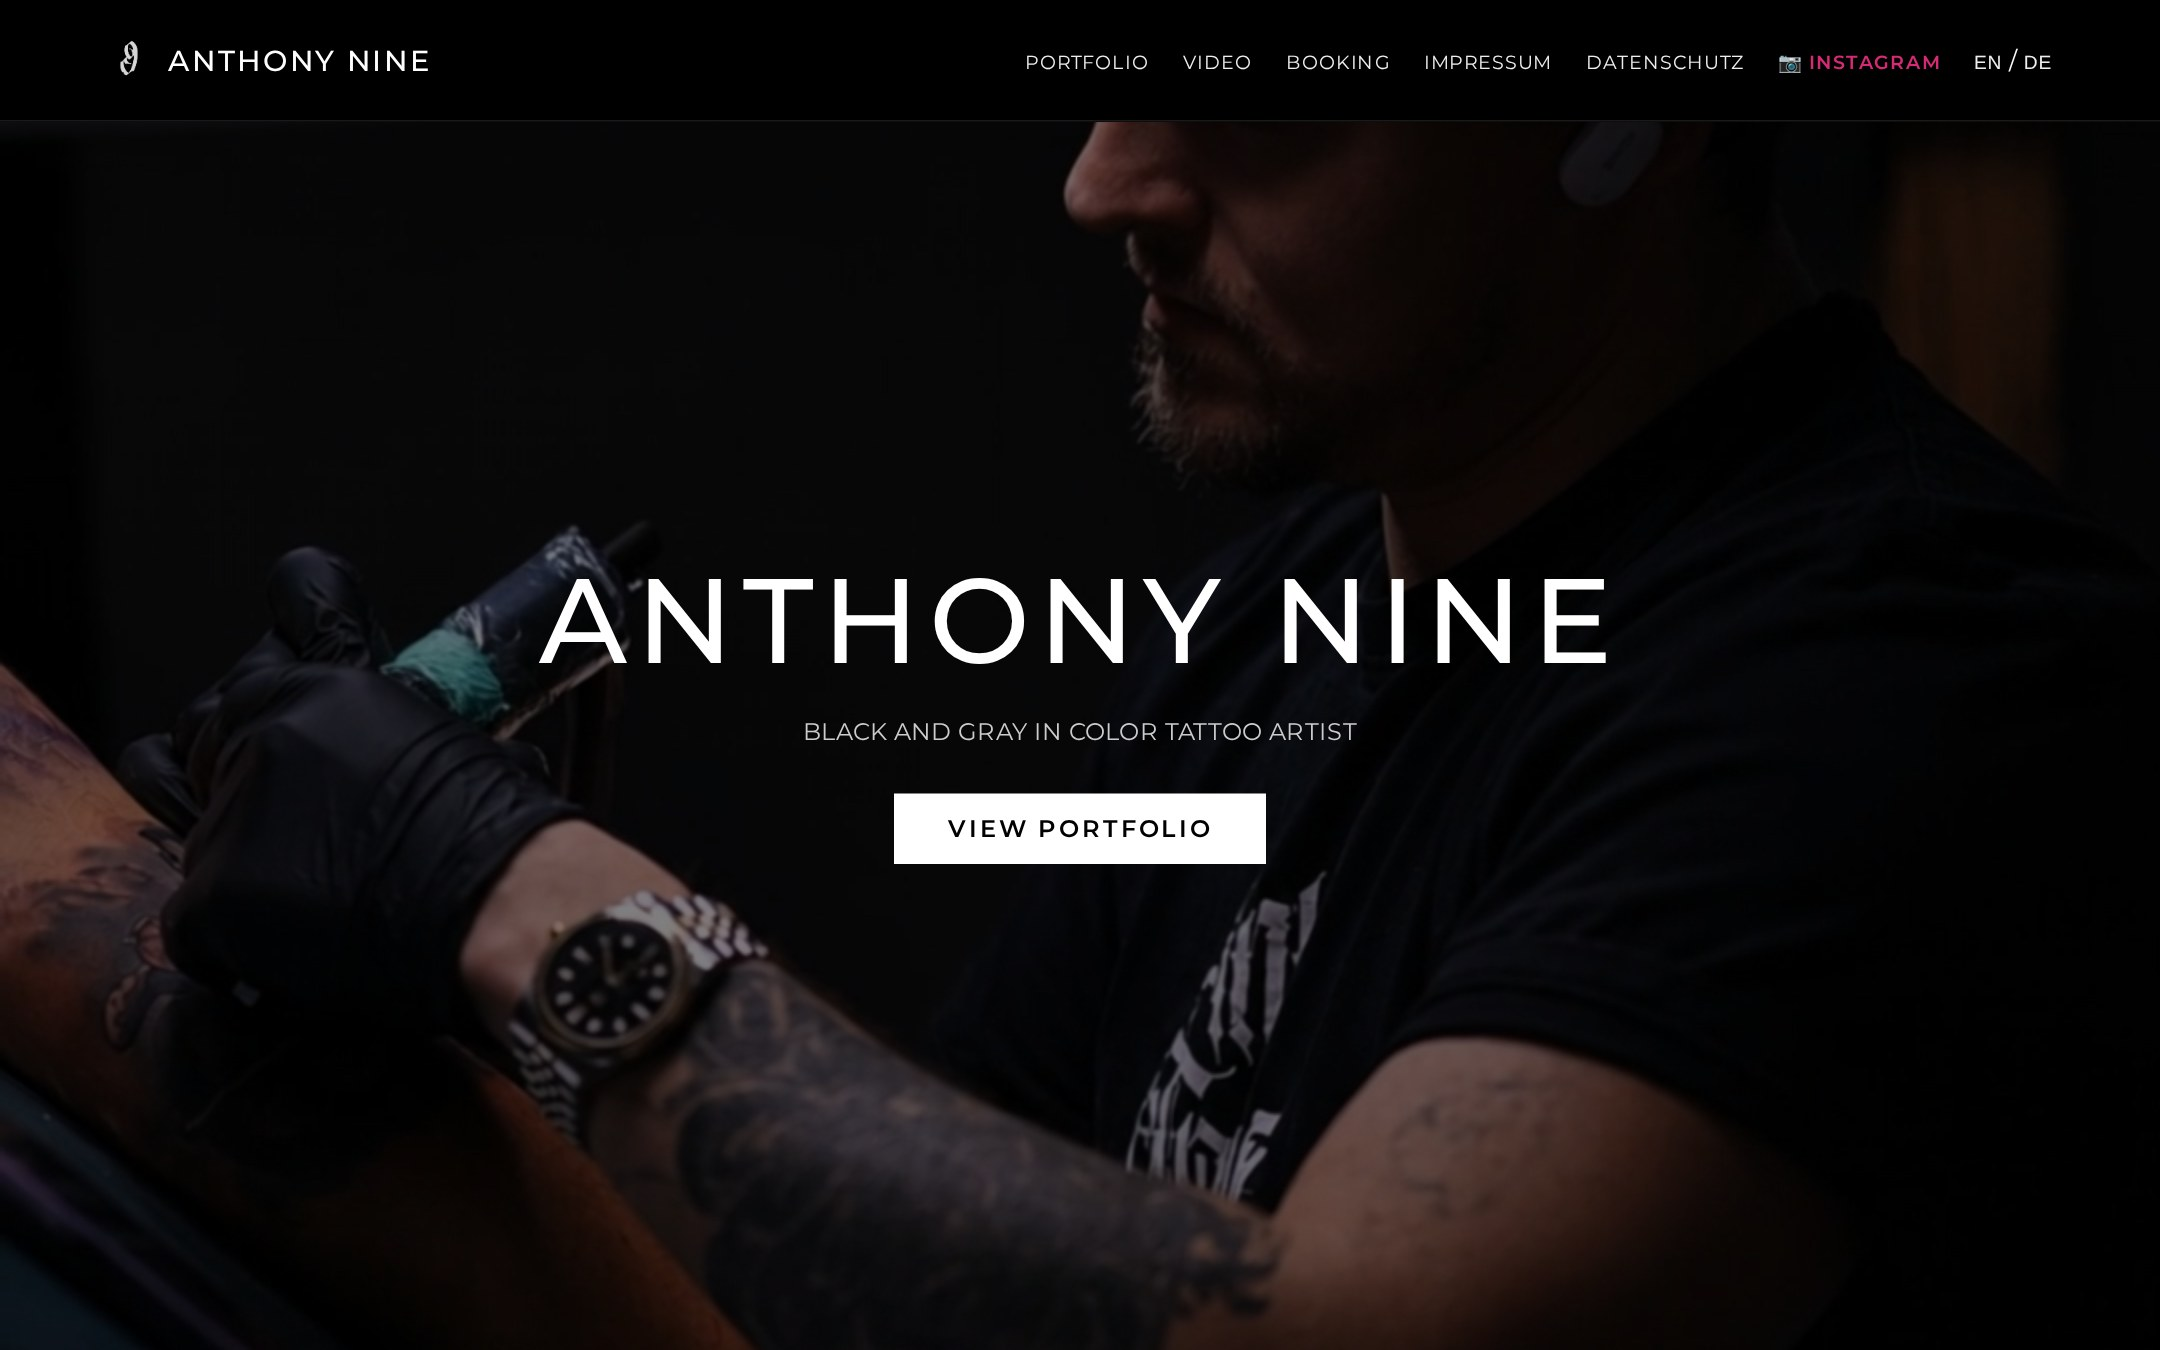
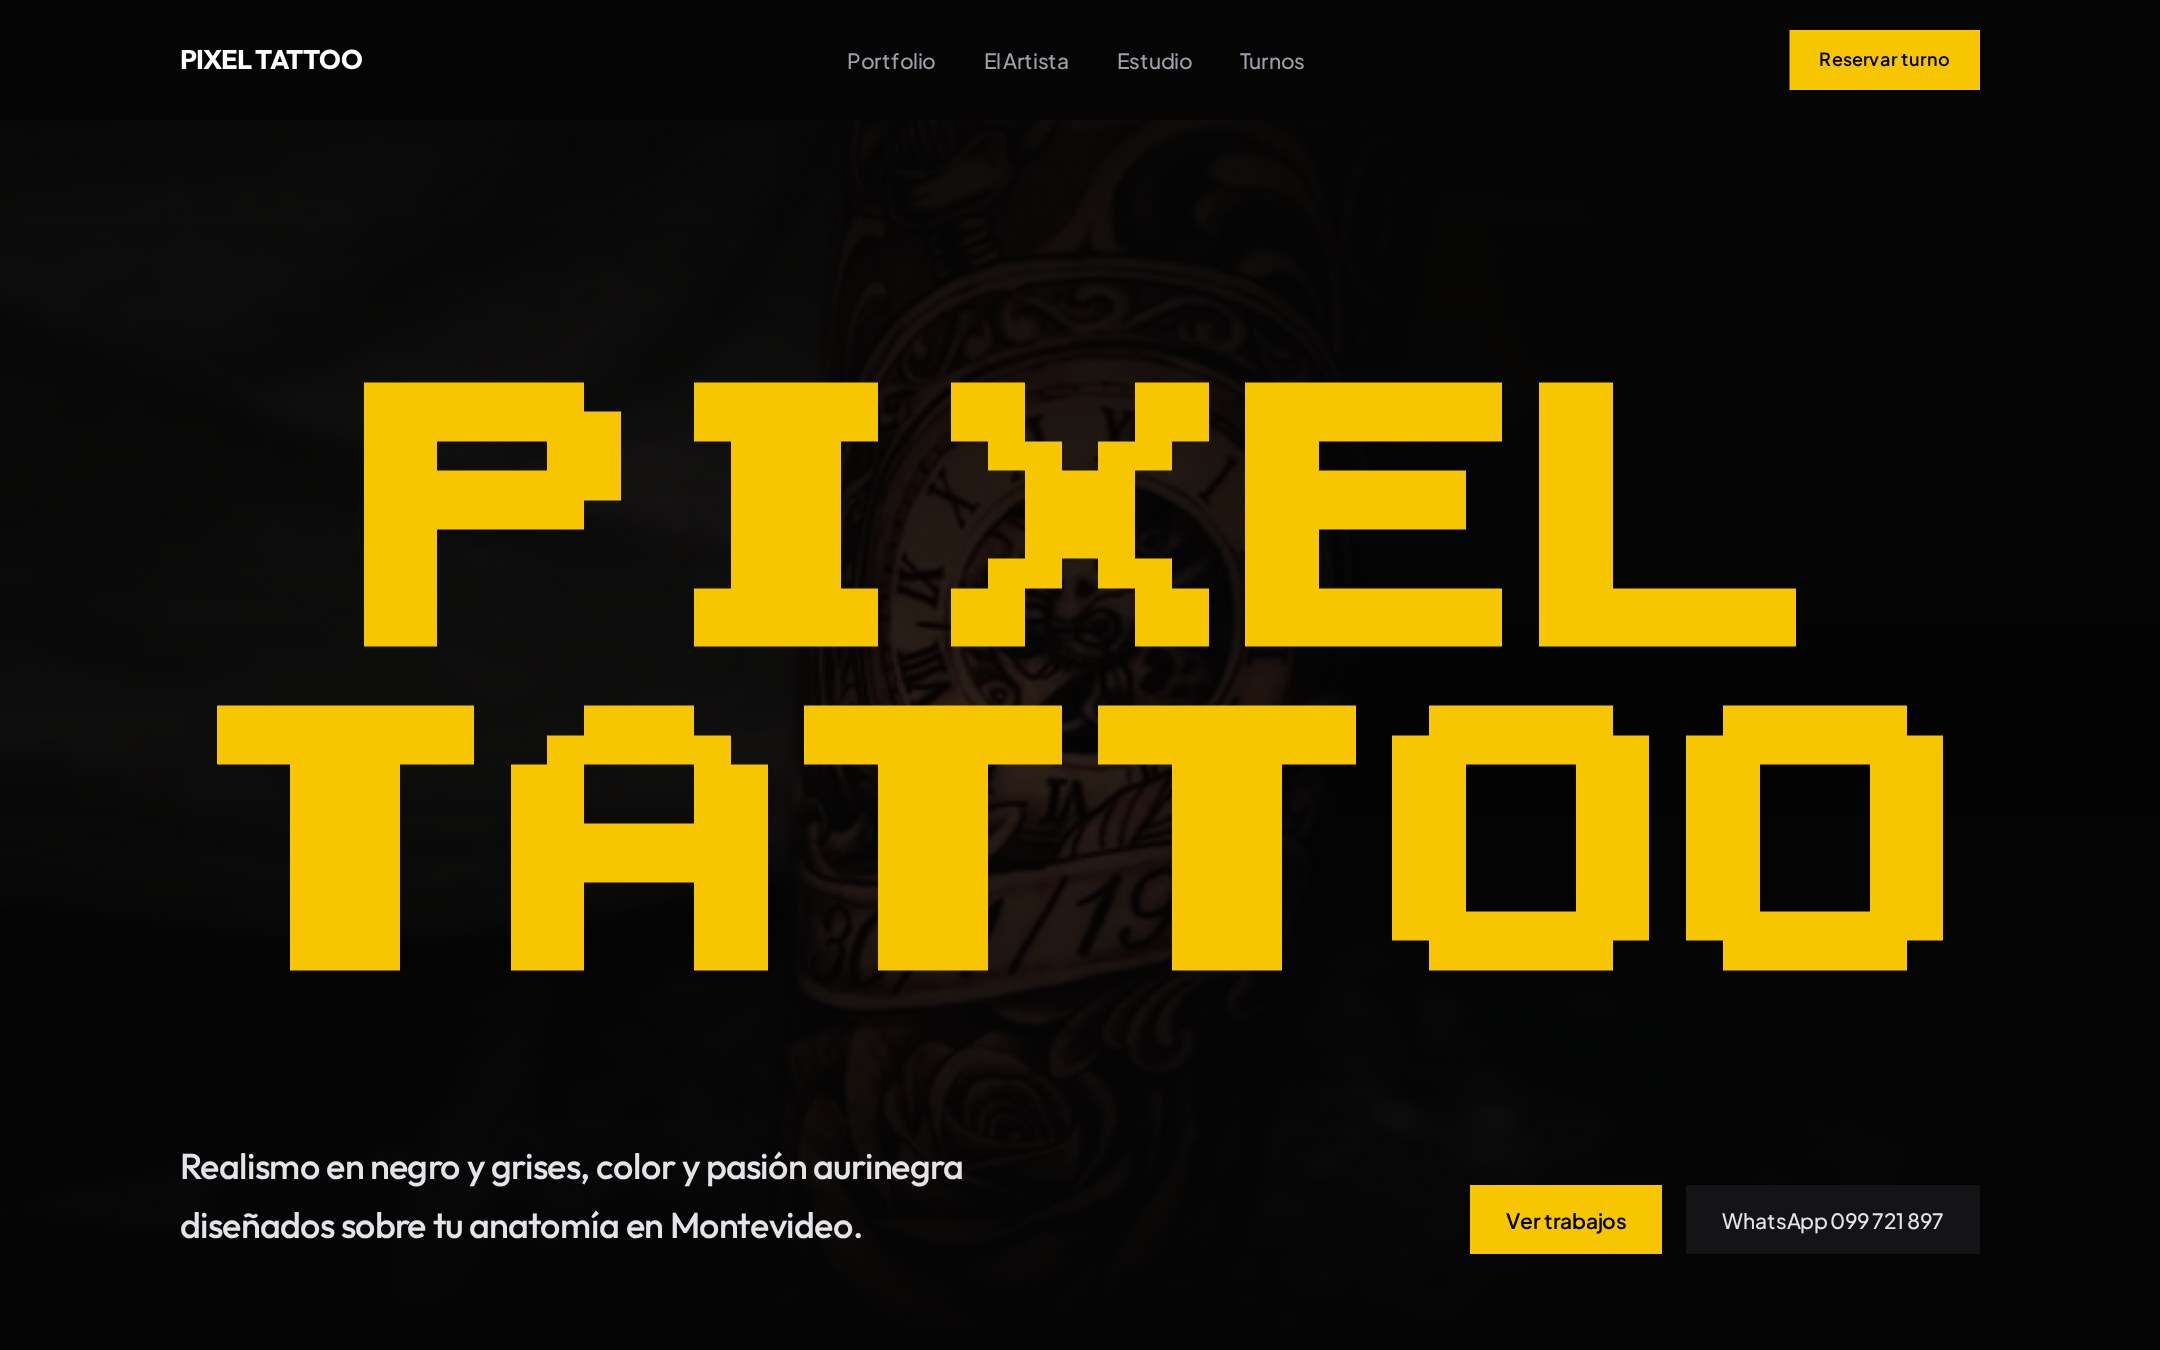
Replace Anthony Nine with Tony Pixel Tattoo (tonypixeltattoo.com)
New screenshots of home, portfolio and booking; description based on the
live site (Tony Otero, Tempel Tattoo Studio, Montevideo; WhatsApp booking).

diff --git a/src/data/site.ts b/src/data/site.ts
@@ -64,13 +64,13 @@ export const projects: Project[] = [
   },
   {
     id: 'tony',
-    name: 'Anthony Nine',
-    domain: 'tonytattoo.com',
-    url: 'https://tonytattoo.com/',
-    kind: { en: 'Tattoo artist · Black & grey and color', es: 'Tatuador · Blanco y negro y color' },
+    name: 'Tony Pixel Tattoo',
+    domain: 'tonypixeltattoo.com',
+    url: 'https://tonypixeltattoo.com/',
+    kind: { en: 'Tattoo artist · Montevideo, Uruguay', es: 'Tatuador · Montevideo, Uruguay' },
     summary: {
-      en: 'A dark, portfolio-first site with a video section and a booking form that collects the details the artist needs before he replies.',
-      es: 'Una web oscura centrada en el portafolio, con sección de video y un formulario de reserva que recoge los datos que el artista necesita antes de responder.',
+      en: 'The site of Antonio “Tony” Otero, a realism artist at Tempel Tattoo Studio: a portfolio filtered by style, artist and studio details, a page for each specialty, and a booking form that opens WhatsApp with the request already written.',
+      es: 'La web de Antonio «Tony» Otero, tatuador de realismo en Tempel Tattoo Studio: portafolio filtrado por estilo, datos del artista y del estudio, una página por especialidad y un formulario de turnos que abre WhatsApp con la consulta ya escrita.',
     },
     pages: [
       { id: 'home', label: { en: 'Home', es: 'Inicio' } },
@@ -174,7 +174,7 @@ export const services: Service[] = [
       en: 'Every inquiry arrives complete and organized: who they are, what they want and how to reach them. Keep track of each client from first message to return visit.',
       es: 'Cada consulta llega completa y ordenada: quién es, qué quiere y cómo contactarle. Sigue a cada cliente desde el primer mensaje hasta la próxima visita.',
     },
-    example: { site: 'tony', page: 'book', caption: { en: 'tonytattoo.com, booking form', es: 'tonytattoo.com, formulario de reserva' } },
+    example: { site: 'tony', page: 'book', caption: { en: 'tonypixeltattoo.com, booking form that opens WhatsApp', es: 'tonypixeltattoo.com, formulario de turnos que abre WhatsApp' } },
   },
 ];
 
